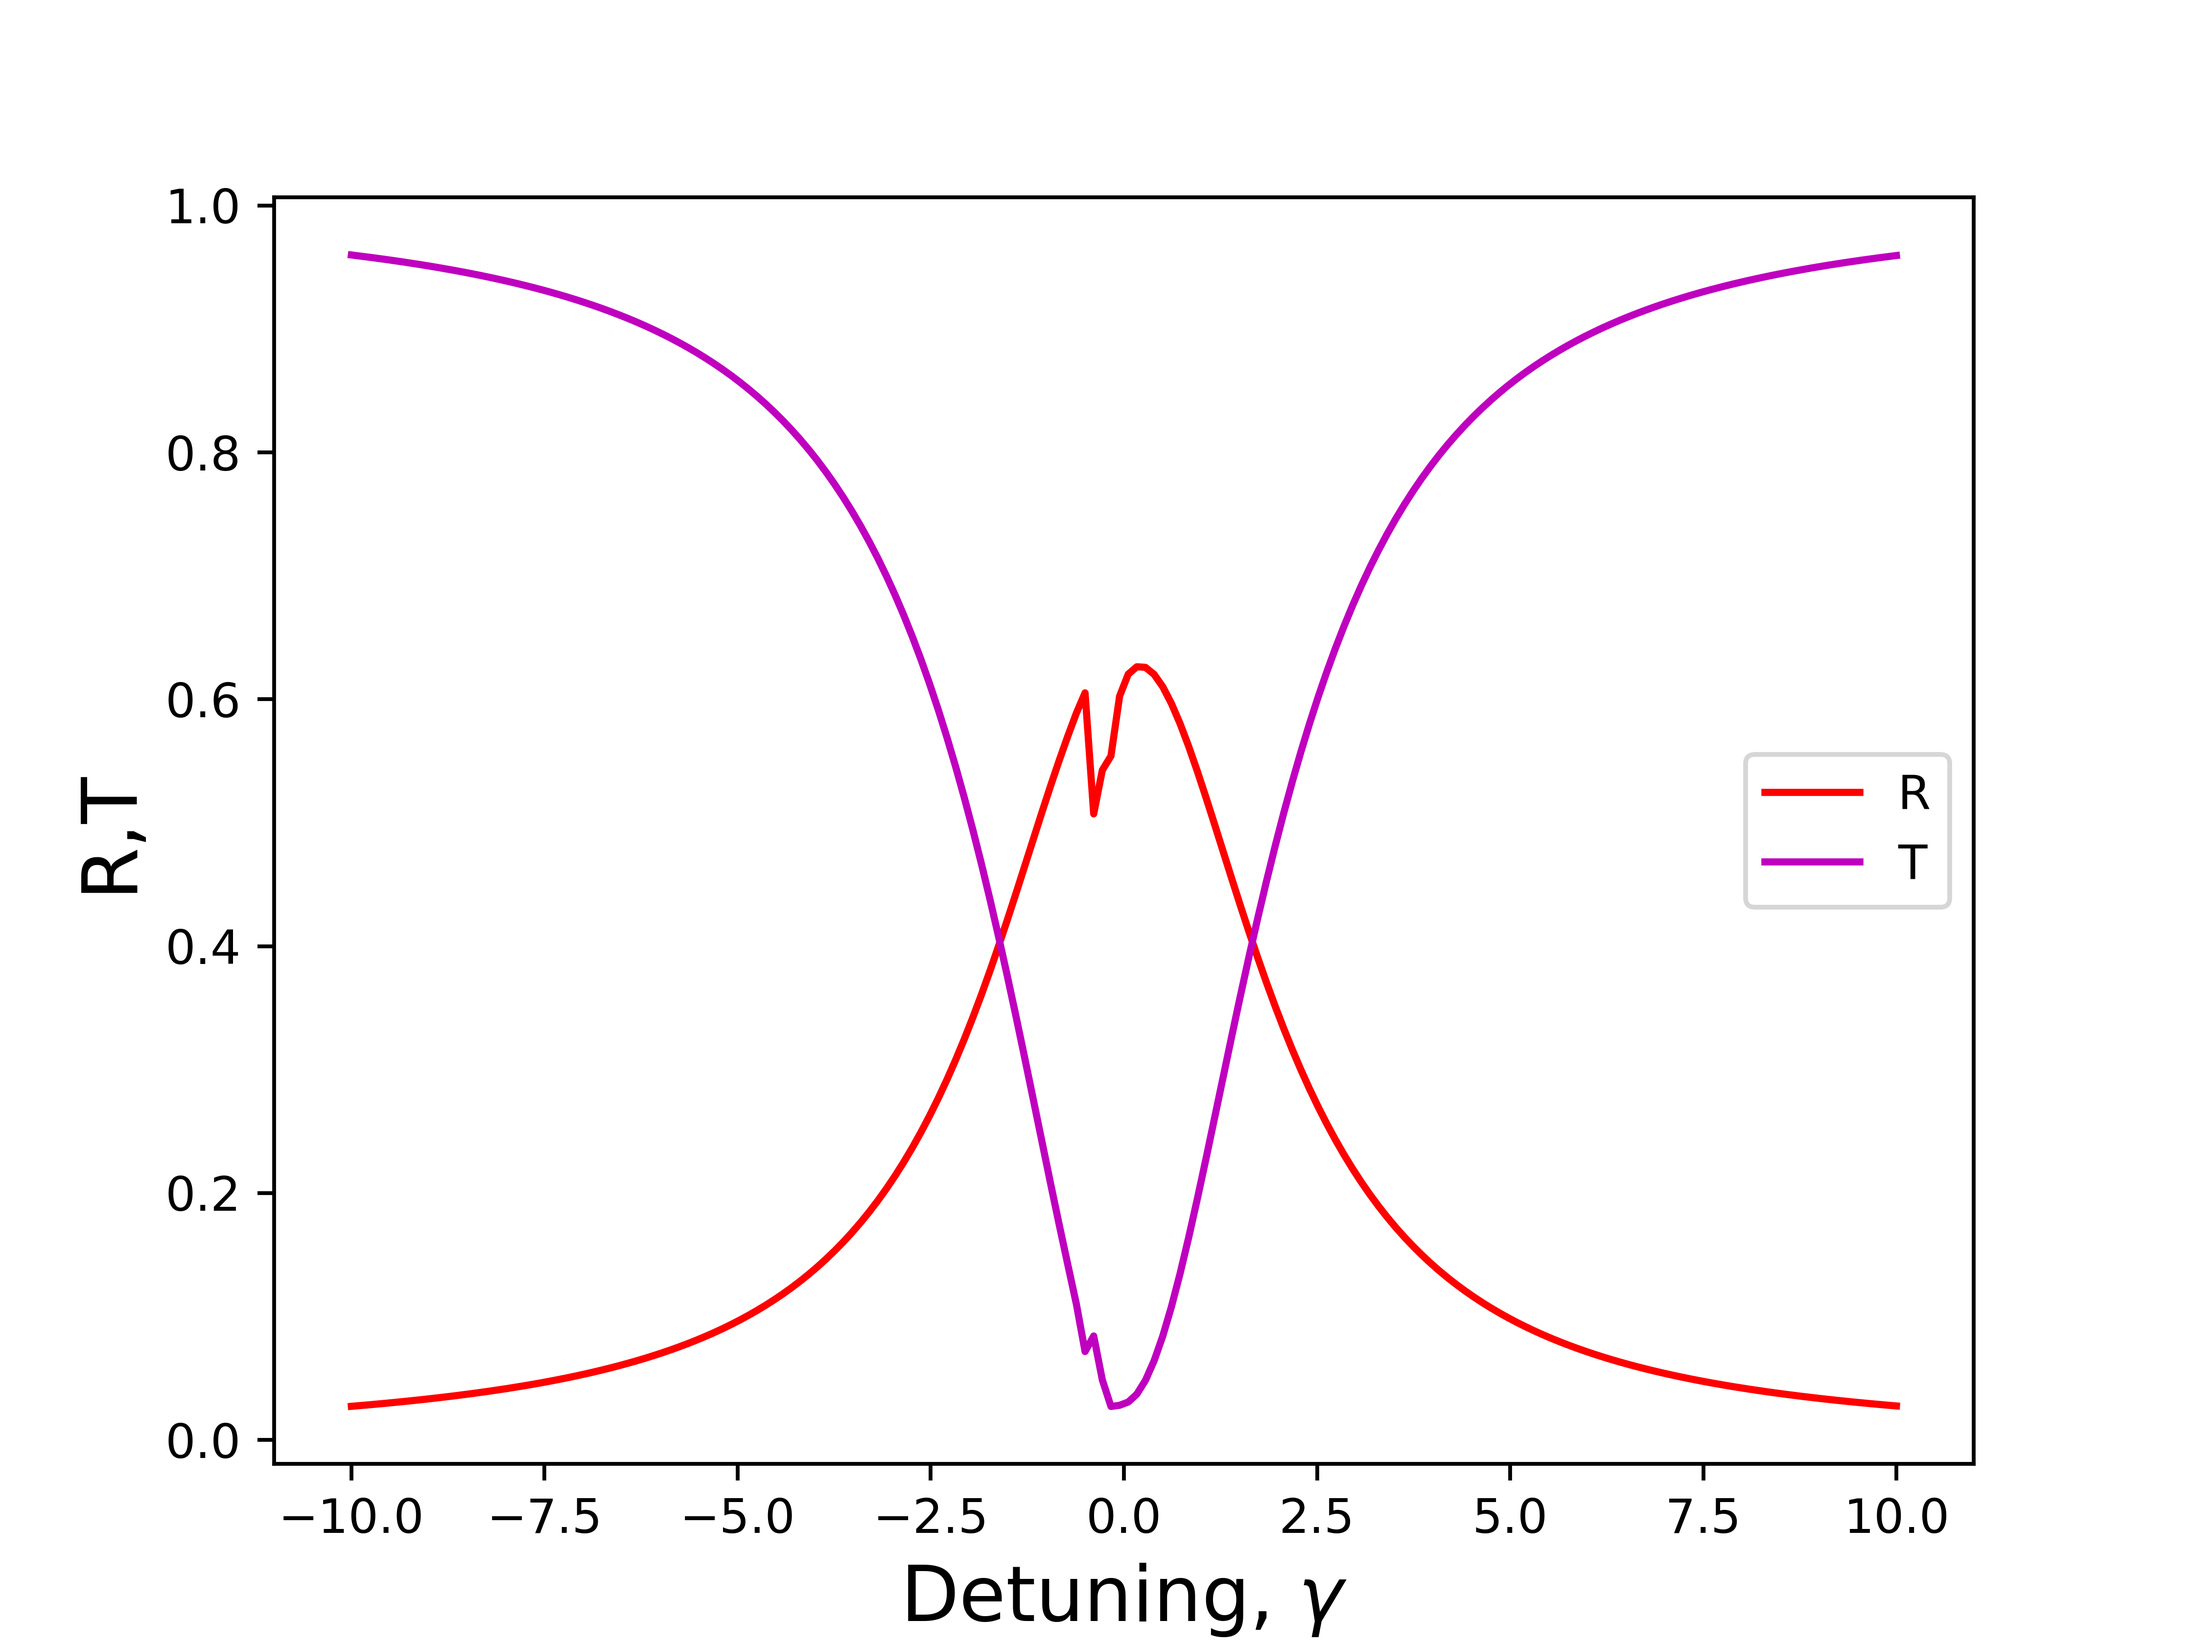
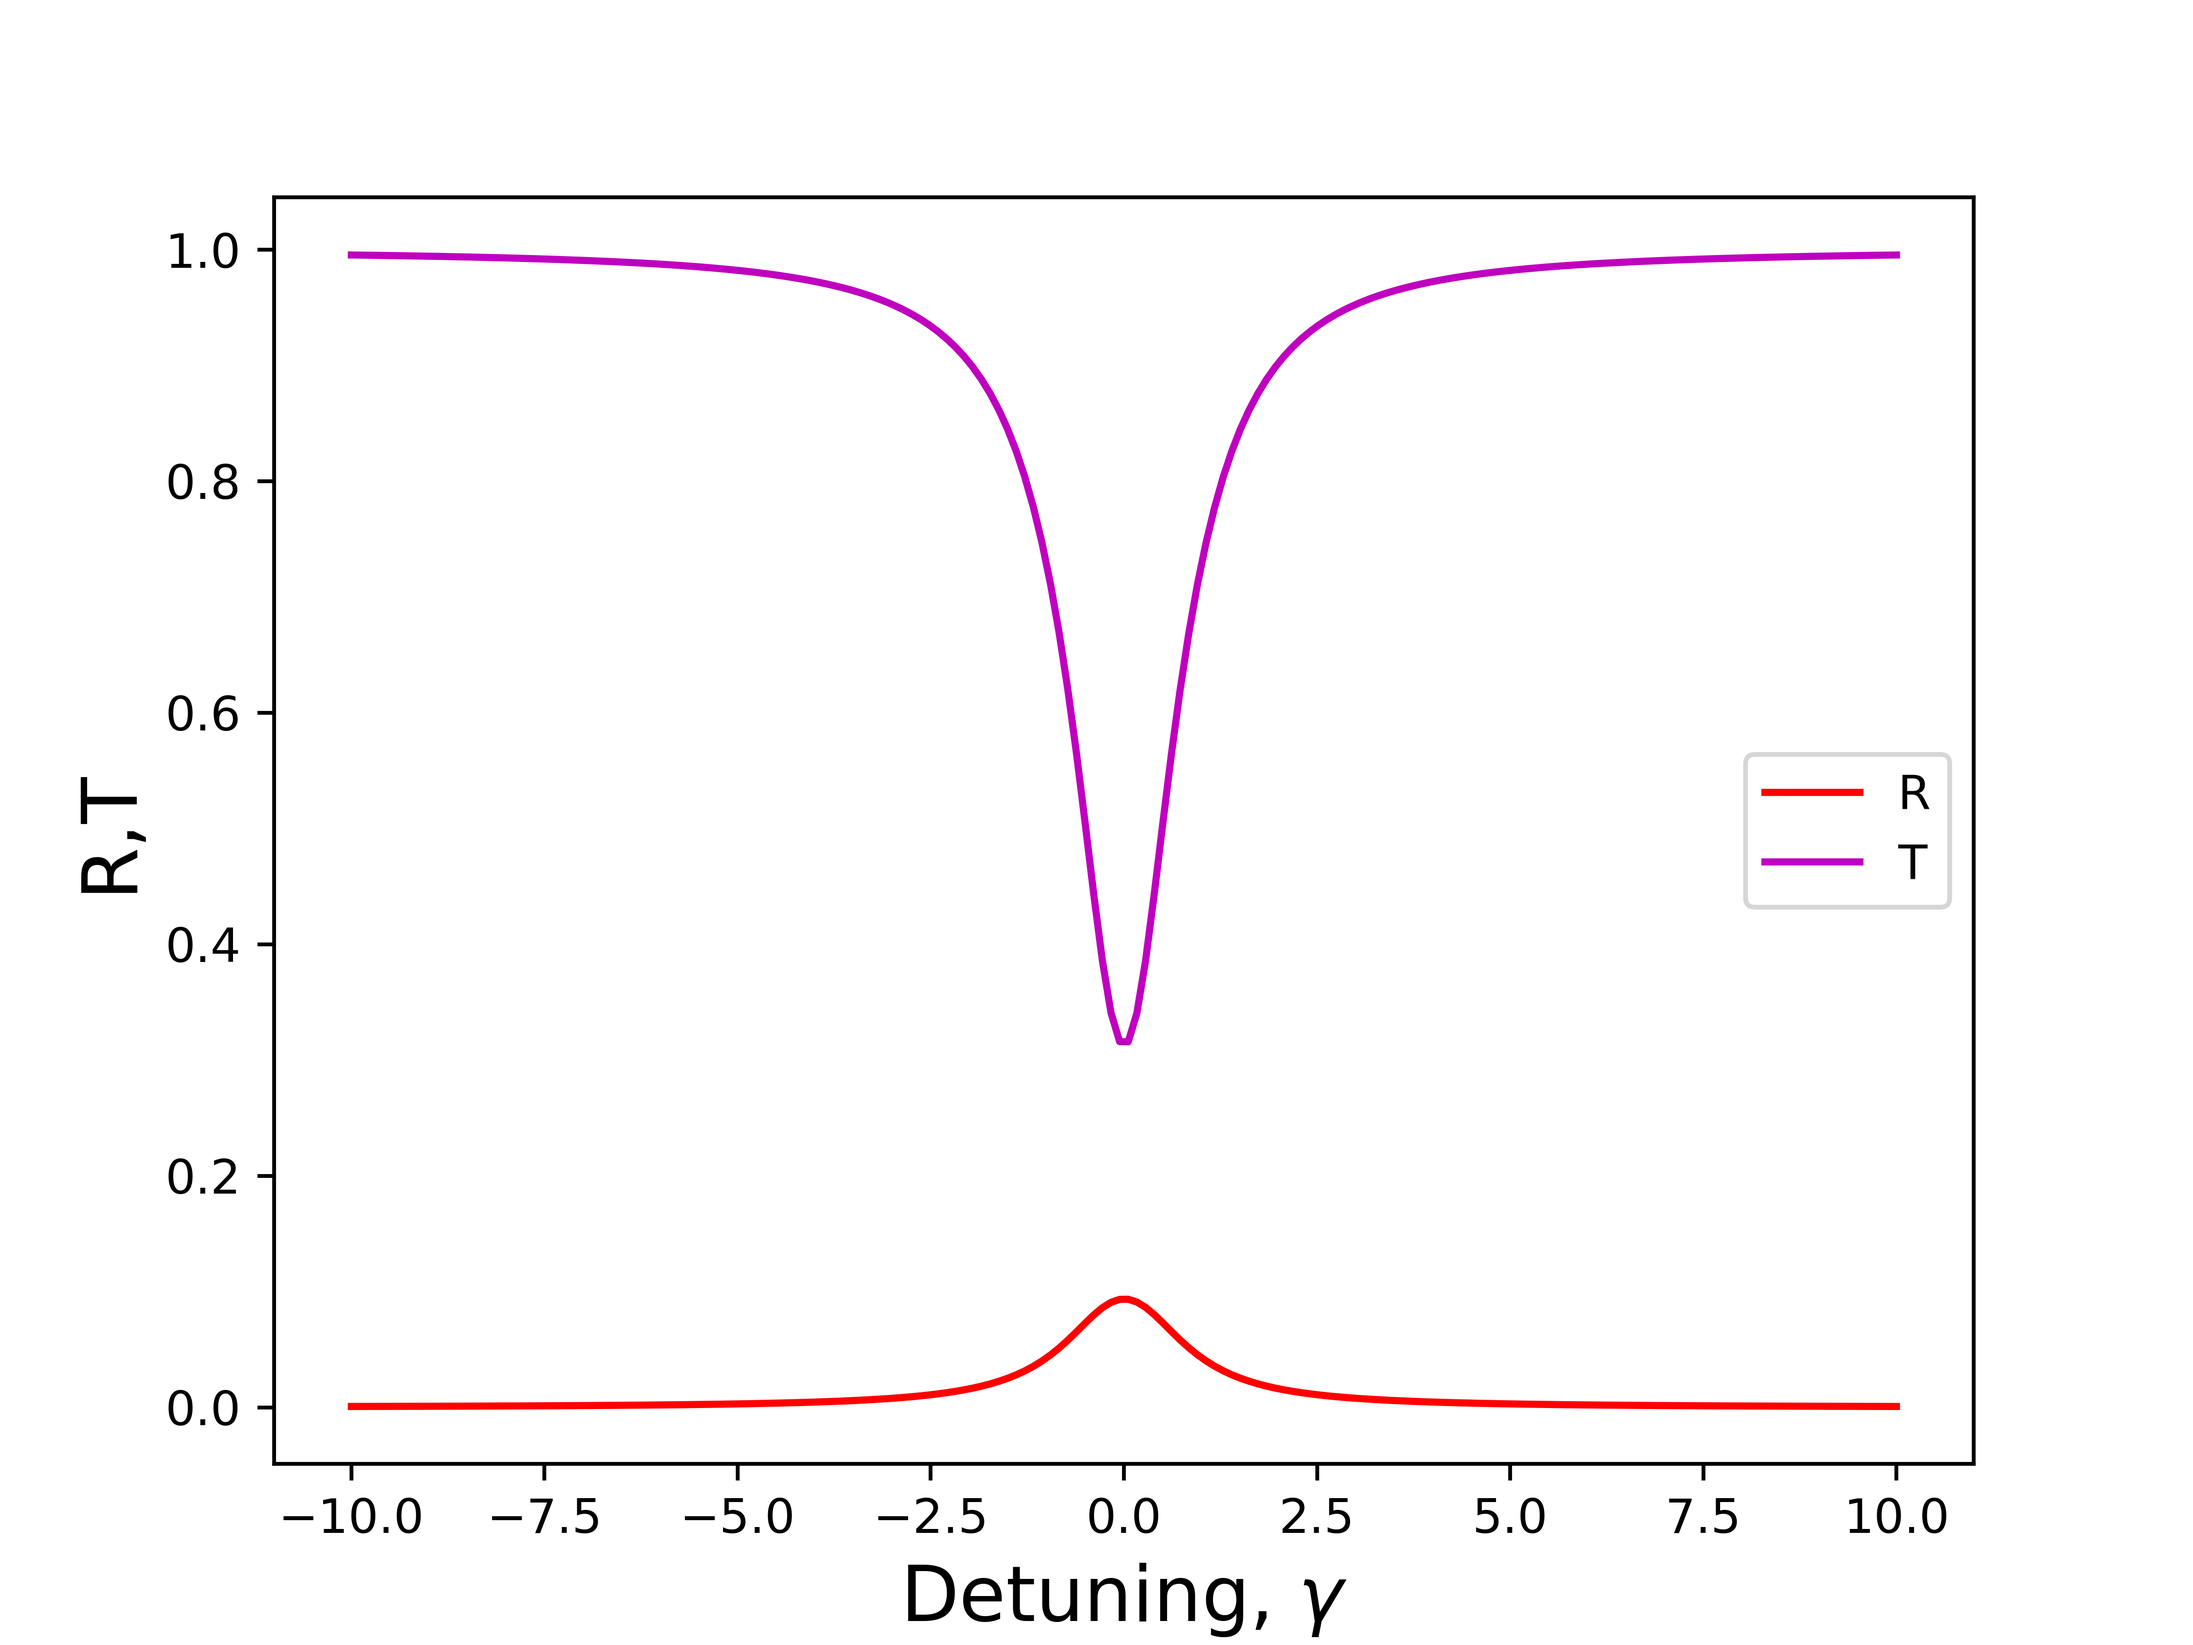
Just typos

diff --git a/one_D_scattering.py b/one_D_scattering.py
@@ -64,7 +64,6 @@ class ensemble(object):
             self.xp = np.array([[]],dtype=np.complex)
             self.x0 = np.array([[]],dtype=float)
             self.index = np.array([[]])
-            self.D =  np.zeros([nat,nat],dtype=np.complex)
             self.Transmittance = np.zeros(len(deltaP),dtype=np.complex);
             self.Reflection = np.zeros(len(deltaP),dtype=np.complex);
             self.iTransmittance = np.zeros(len(deltaP),dtype=np.complex);
@@ -200,13 +199,12 @@ class ensemble(object):
             import gc
             gc.collect()
                         
-            self.create_D_matrix
+            self.create_D_matrix()
             self.reflection_calc()
 
             print('Current ensemble calculation time is ',time()-t1,'s')
  
-        
-        @property
+
         def create_D_matrix(self):
             """
             Method creates D matrix and reshapes D
@@ -381,9 +379,10 @@ class ensemble(object):
                     Di[i,j,2,2] += d01*d10*(D1[i,j]- \
                                             self.xm[i,j]*self.xp[i,j]*D2[i,j])
 
-            #
+
             if self.typ == 'L':
                 try:
+
                     from sigmaMatrix import returnForLambda
                     self.D = returnForLambda(Di, np.array(self.index, dtype=np.int), nb)
                 except:
@@ -621,8 +620,9 @@ class ensemble(object):
                 omega = self.deltaP[k]
                  
                 #V = lm(np.zeros([nat*3**nb,nat*3**nb], dtype = np.complex))
-                Sigma = csc(Sigmad+omega*One)
+                Sigma = (Sigmad+omega*One)
                 V =  1*(- self.D/hbar/lambd/lambd )
+
                 ResInv = Sigma + V
 
                 
@@ -732,7 +732,7 @@ freq = np.linspace(-10, 10, 180)*gd
 
 #Validation (all = 1 iff ful theory, except VERIFICATION_LAMBDA)
 
-RADIATION_MODES_MODEL = 1. # = 1 iff assuming our model of radiation modes =0 else
+RADIATION_MODES_MODEL = 0. # = 1 iff assuming our model of radiation modes =0 else
 VACUUM_DECAY = 1. # = 0 iff assuming only decay into fundamental mode, =1 iff decay into fundamental and into radiation
 PARAXIAL = 1. # = 0 iff paraxial, =1 iff full mode
 VERIFICATION_LAMBDA = 0.
@@ -748,13 +748,13 @@ if __name__ == '__main__':
     args = {
         
             'nat':6, #number of atoms
-            'nb':5, #number of neighbours in raman chanel (for L-atom only)
+            'nb':0, #number of neighbours in raman chanel (for L-atom only)
             's':'chain', #Stands for atom positioning : chain, nocorrchain and doublechain
             'dist':0.,  # sigma for displacement (choose 'chain' for gauss displacement.)
             'd' : 2.0, # distance from fiber
             'l0':1.001, # mean distance between atoms (in lambda_m /2 units)
             'deltaP':freq,  # array of freq.
-            'typ':'L',  # L or V for Lambda and V atom resp.
+            'typ':'V',  # L or V for Lambda and V atom resp.
             'ff': 0.3
             
             }
